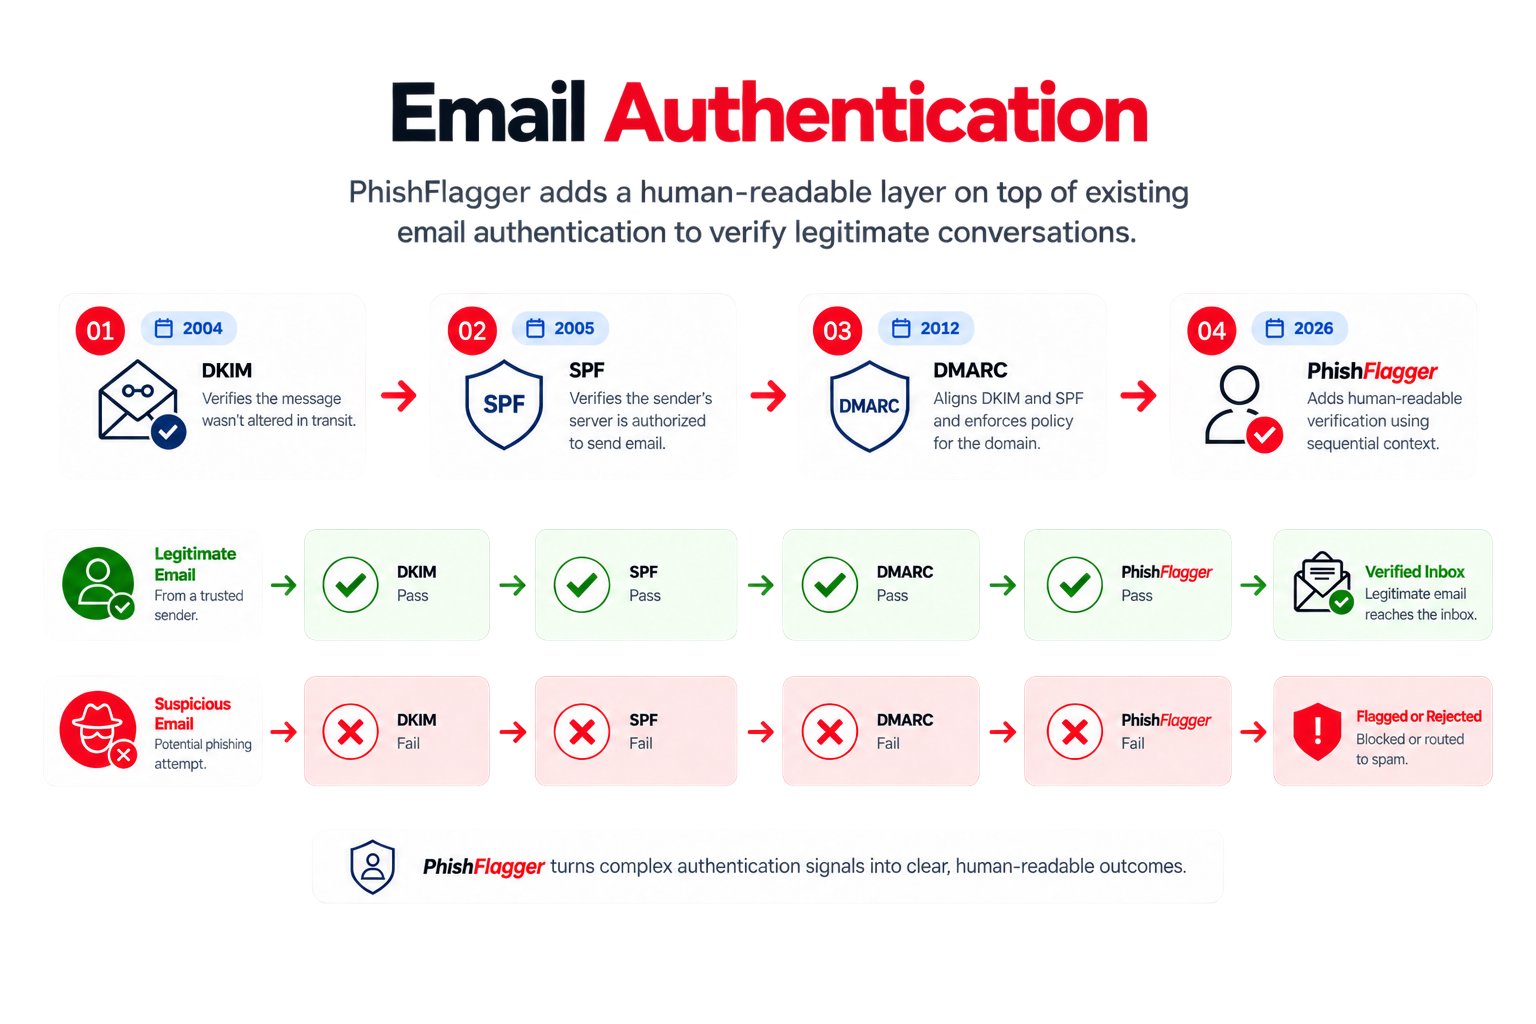
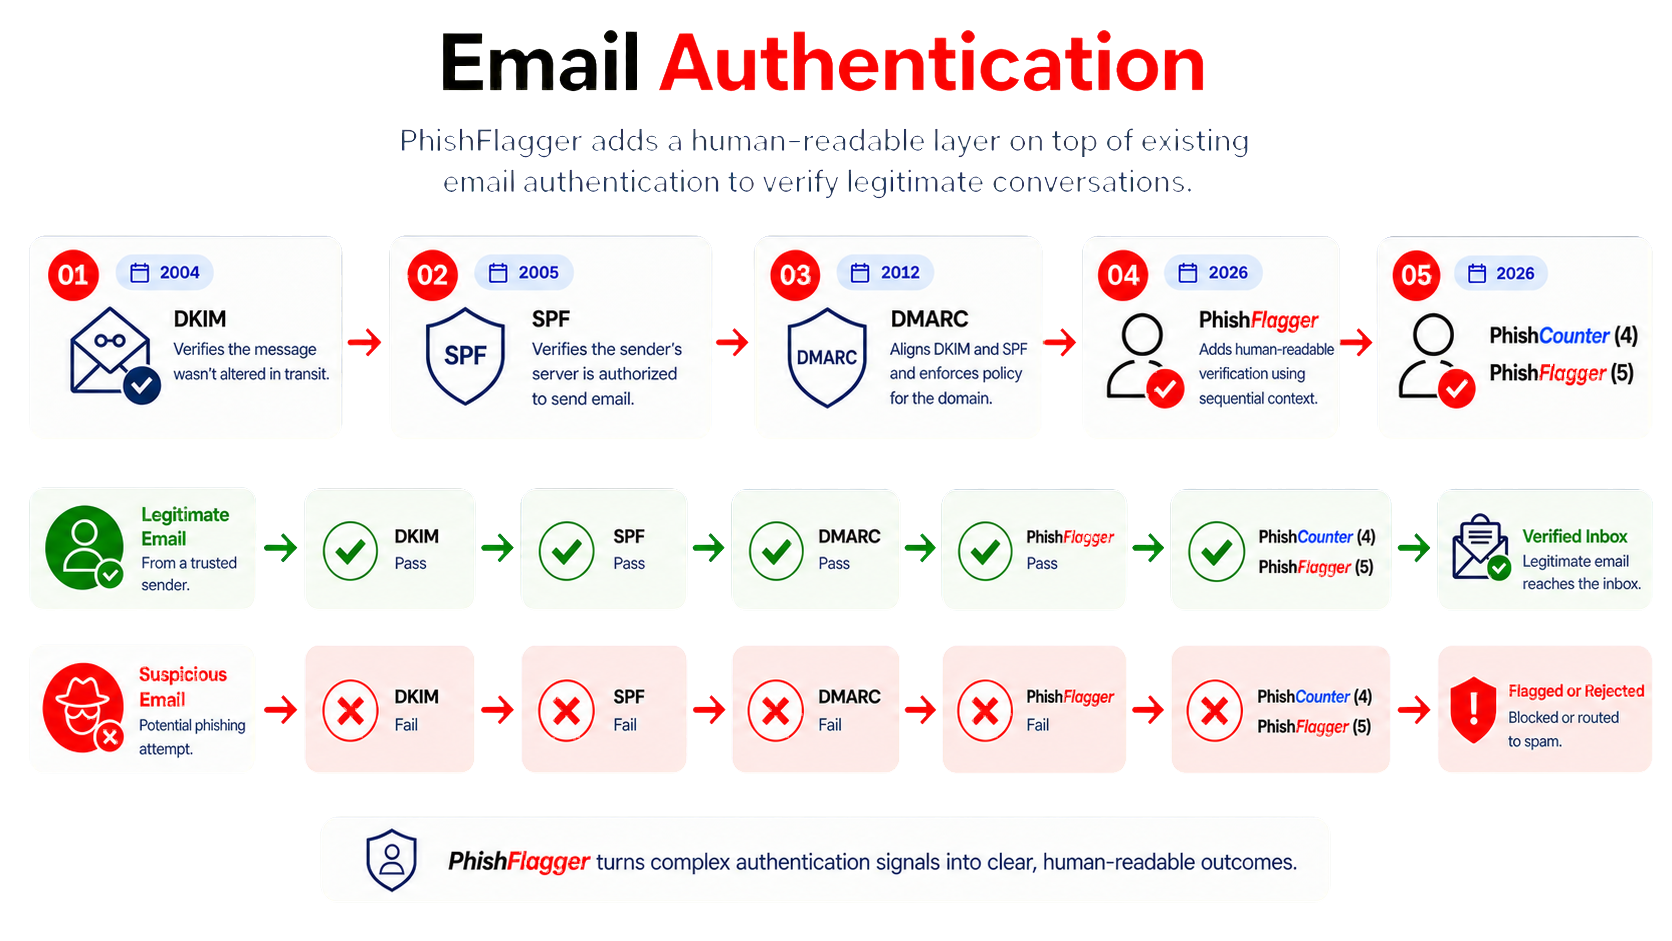
PageDownButton: support pinned target selector; Telecom 5-pane fit, granny resize
- PageDownButton: accept targetSelector to jump to a specific element
  reliably (was purely dynamic "next section" detection)
- Join: pin the /email page's down-arrow to scroll straight to the
  icon-links pane (Contact/Subscribe/Endorse Us/White Paper/FAQ)
- Telecom: add two blank placeholder image slots to the ^0001 hero row (5
  images total, evenly fit); shrink the granny photo within its column
- Pick up updated Email Authentication artwork

Changed region(s): [[0.2188, 0.0308, 1.0, 0.4623], [0.0, 0.5239, 1.0, 0.9554], [0.0312, 0.2465, 0.2188, 0.4623]]

diff --git a/src/pages/join/Telecom.jsx b/src/pages/join/Telecom.jsx
@@ -24,6 +24,13 @@ export default function Telecom() {
       >
         <SectionCounter value="^0001" />
         <div className="mx-auto flex max-w-[1800px] flex-col items-stretch justify-center gap-6 sm:gap-8 lg:h-[300px] lg:flex-row lg:flex-nowrap lg:items-stretch lg:justify-center">
+          {/* A — placeholder */}
+          <div className="hidden h-full items-center justify-center lg:flex lg:flex-1">
+            <div className="flex h-[220px] w-full items-center justify-center rounded-2xl border-2 border-black bg-white">
+              <PlaceholderIcon />
+            </div>
+          </div>
+
           {/* 1 — heading + intro */}
           <div className="flex h-[220px] items-center justify-center lg:h-full lg:flex-1">
             <img
@@ -47,8 +54,15 @@ export default function Telecom() {
             <img
               src="/assets/images/granny image.png"
               alt="User receiving an authenticated call"
-              className="h-full w-auto max-w-full rounded-2xl object-cover"
+              className="h-[75%] w-auto max-w-full rounded-2xl object-cover"
             />
+          </div>
+
+          {/* B — placeholder */}
+          <div className="hidden h-full items-center justify-center lg:flex lg:flex-1">
+            <div className="flex h-[220px] w-full items-center justify-center rounded-2xl border-2 border-black bg-white">
+              <PlaceholderIcon />
+            </div>
           </div>
         </div>
 
@@ -475,6 +489,25 @@ function ActionCard({
         )}
       </div>
     </Link>
+  );
+}
+
+function PlaceholderIcon() {
+  return (
+    <svg
+      viewBox="0 0 24 24"
+      fill="none"
+      stroke="currentColor"
+      strokeWidth="1.5"
+      strokeLinecap="round"
+      strokeLinejoin="round"
+      className="h-14 w-14 text-gray-300"
+      aria-hidden
+    >
+      <rect x="3" y="4" width="18" height="16" rx="2" />
+      <circle cx="8.5" cy="9.5" r="1.5" />
+      <path d="M21 16l-5.5-5.5a2 2 0 0 0-2.83 0L3 20" />
+    </svg>
   );
 }
 

diff --git a/src/pages/join/Join.jsx b/src/pages/join/Join.jsx
@@ -25,7 +25,7 @@ export default function Join() {
       }}
     >
       <CloseButton force />
-      <PageDownButton containerRef={containerRef} />
+      <PageDownButton containerRef={containerRef} targetSelector="#join-icon-links" />
       {/* ===== Pane 1 — Email Solutions (no counter; icon row below carries ^0001) ===== */}
       <section className="relative w-full px-4 pb-6 pt-6 sm:px-6 sm:pb-8 sm:pt-8">
         <div className="mx-auto grid max-w-content grid-cols-1 items-center gap-10 sm:gap-16 lg:grid-cols-[500px_1fr] lg:gap-4">
@@ -129,7 +129,7 @@ export default function Join() {
       </section>
 
       {/* ===== Pane 2 — Contact / Endorse Us / White Paper / FAQ (no background) ===== */}
-      <section className="relative w-full px-4 pb-14 pt-2 sm:px-6 sm:pb-20 sm:pt-3">
+      <section id="join-icon-links" className="relative w-full px-4 pb-14 pt-2 sm:px-6 sm:pb-20 sm:pt-3">
         <div className="mx-auto max-w-content">
           <div className="flex flex-nowrap justify-center gap-x-3 overflow-x-auto pb-2 sm:gap-x-4">
             <ActionCard

diff --git a/src/components/ui/PageDownButton.jsx b/src/components/ui/PageDownButton.jsx
@@ -1,10 +1,19 @@
 // Small floating "Page Down" button, styled to match CloseButton. Clicking
-// it scrolls to the top of the next <section> below the current scroll
-// position, within the given container (or the whole document if no
-// container is supplied).
-export default function PageDownButton({ containerRef }) {
+// it scrolls to a target element. Pass `targetSelector` to pin an exact
+// element (recommended); otherwise it falls back to scrolling to the next
+// <section> below the current scroll position within `containerRef`.
+export default function PageDownButton({ containerRef, targetSelector }) {
   function handleClick() {
     const root = containerRef?.current ?? document;
+
+    if (targetSelector) {
+      const target = root.querySelector(targetSelector);
+      if (target) {
+        target.scrollIntoView({ behavior: "smooth", block: "start" });
+        return;
+      }
+    }
+
     const sections = Array.from(root.querySelectorAll("section"));
     const scrollY = window.scrollY;
 
